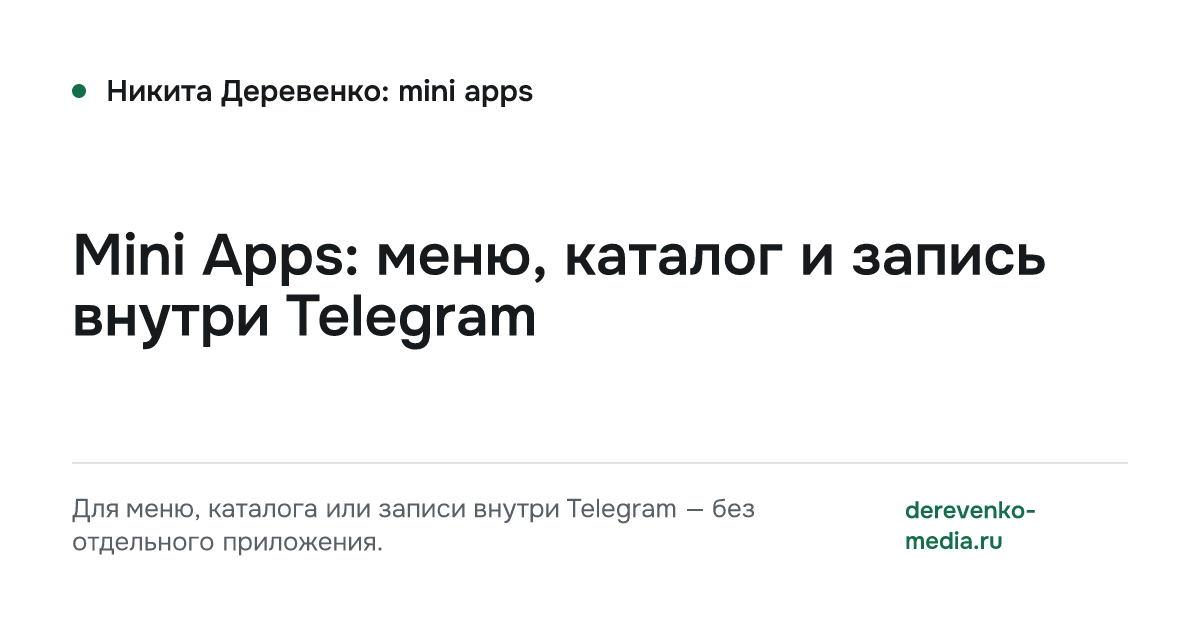
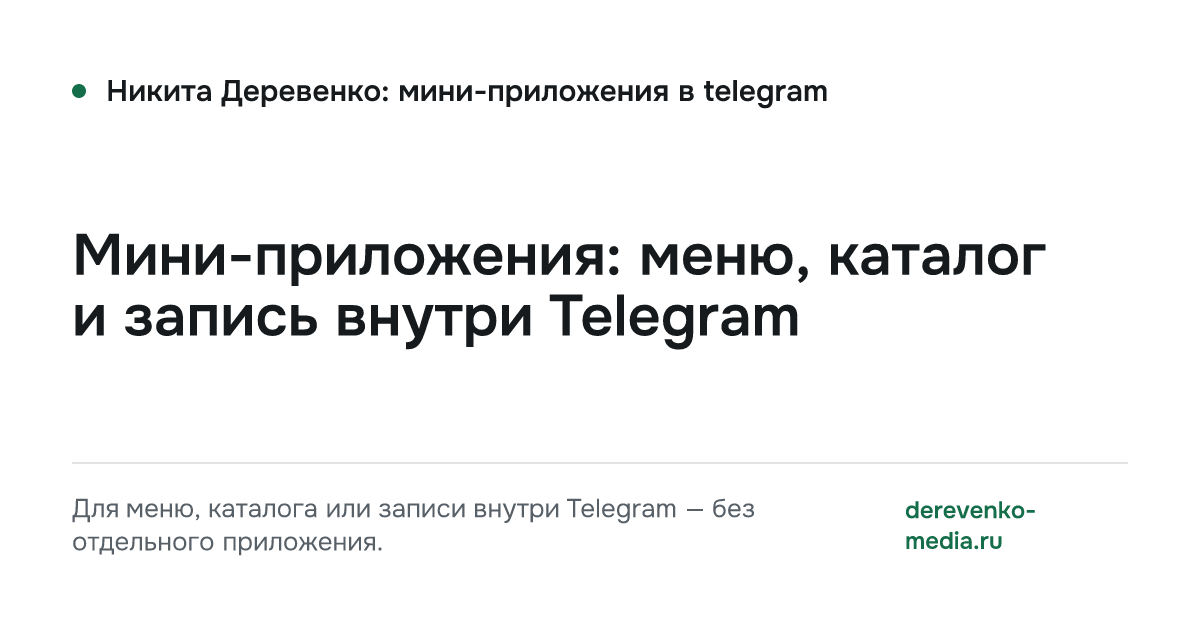
Юридические правки по проверке vlip.site и новым требованиям
- политика ПД: порядок действий при утечке (24/72 ч, ч. 3.1 ст. 21 152-ФЗ), ссылка на редакцию с учётом 420-ФЗ
- новая страница «Отказ от услуги и возврат оплаты» (RU/EN), ссылка в подвале
- возрастная маркировка 0+ в подвале (436-ФЗ)
- закон о защите русского языка (с 01.03.2026): «Mini App» на русской версии заменено на «мини-приложение»
- дата редакции документов — 30 октября 2026

Claude-Session: https://claude.ai/code/session_01KVSGJhw8g72LG5bgx7uyba

Changed region(s): [[0.0617, 0.3619, 0.8942, 0.573], [0.3392, 0.1206, 0.7092, 0.181]]

diff --git a/lib/i18n/ru.ts b/lib/i18n/ru.ts
@@ -36,7 +36,7 @@ export const ru = {
   meta: {
     title: 'Никита Деревенко — реклама, сайты и Telegram-сервисы для бизнеса',
     description:
-      'Яндекс Директ, VK Реклама, карточки на Яндекс Картах, сайты, Telegram-боты и Mini Apps. Работаю лично, договор и чек. Бесплатный разбор за 24 часа.',
+      'Яндекс Директ, VK Реклама, карточки на Яндекс Картах, сайты, Telegram-боты и мини-приложения. Работаю лично, договор и чек. Бесплатный разбор за 24 часа.',
     ogLine: 'Реклама и карты для малого бизнеса — с отчётом в рублях, а не в кликах',
   },
   brand: { name: 'Никита Деревенко' },
@@ -160,7 +160,7 @@ export const ru = {
     'telegram-bots': {
       name: 'Telegram-сервисы',
       forWhom: 'Для записи, заказов, каталога и оплаты прямо в Telegram.',
-      card: 'Боты для заявок, записи и каталога, Mini Apps, автоматизация заявок.',
+      card: 'Боты для заявок, записи и каталога, мини-приложения, автоматизация заявок.',
       page: {
         title: 'Telegram-боты: заявки, запись, каталог, оплата',
         description: 'Telegram-боты для заявок, записи и FAQ, бот-каталог с корзиной, бот с оплатой или CRM. Сценарий, уведомления, выгрузка в таблицу. От 5 рабочих дней.',
@@ -180,7 +180,7 @@ export const ru = {
         ],
         extra: ['Сервер и поддержка — от 2 000 ₽/мес.', 'Комиссии платёжных систем и тарифы CRM оплачиваются отдельно.'],
         faq: [
-          { q: 'Чем бот отличается от Mini App?', a: 'Бот — диалог с кнопками. Mini App — полноценный экран внутри Telegram: меню с фото, каталог, корзина, запись по календарю. Mini App сложнее и дороже — от 59 000 ₽.' },
+          { q: 'Чем бот отличается от мини-приложения?', a: 'Бот — диалог с кнопками. Мини-приложение — полноценный экран внутри Telegram: меню с фото, каталог, корзина, запись по календарю. Мини-приложение сложнее и дороже — от 59 000 ₽.' },
           { q: 'Куда попадают заявки?', a: 'В таблицу и уведомлением администратору в Telegram. По задаче — в CRM.' },
           { q: 'Можно ли принимать оплату?', a: 'Да, через платёжные системы, которые работают с Telegram или по ссылке на оплату. Это бот с оплатой — от 39 000 ₽.' },
           { q: 'Кто будет следить за ботом после запуска?', a: 'Могу взять на поддержку — сервер, мониторинг и мелкие правки от 2 000 ₽/мес. Или передам вам доступы.' },
@@ -189,13 +189,13 @@ export const ru = {
       },
     },
     'mini-apps': {
-      name: 'Mini Apps',
+      name: 'Мини-приложения в Telegram',
       forWhom: 'Для меню, каталога или записи внутри Telegram — без отдельного приложения.',
       card: 'Полноценный экран внутри Telegram: меню, каталог, запись.',
       page: {
-        title: 'Telegram Mini Apps: меню, каталог, запись',
-        description: 'Mini App внутри Telegram от 59 000 ₽: меню или каталог с фото, корзина, запись по календарю, оплата. От 14 рабочих дней.',
-        h1: 'Mini Apps: меню, каталог и запись внутри Telegram',
+        title: 'Мини-приложения в Telegram: меню, каталог, запись',
+        description: 'Мини-приложение внутри Telegram от 59 000 ₽: меню или каталог с фото, корзина, запись по календарю, оплата. От 14 рабочих дней.',
+        h1: 'Мини-приложения: меню, каталог и запись внутри Telegram',
         gets: [
           'Экран с вашим брендом прямо внутри Telegram',
           'Меню или каталог с фото, ценами и корзиной',
@@ -211,7 +211,7 @@ export const ru = {
         ],
         extra: ['Сервер и поддержка — от 2 000 ₽/мес.', 'Комиссии платёжных систем оплачиваются отдельно.'],
         faq: [
-          { q: 'Зачем Mini App, если есть сайт?', a: 'Клиенту не нужно уходить из Telegram: открыл, выбрал, оплатил. Удобно, если клиенты и так пишут вам в Telegram.' },
+          { q: 'Зачем мини-приложение, если есть сайт?', a: 'Клиенту не нужно уходить из Telegram: открыл, выбрал, оплатил. Удобно, если клиенты и так пишут вам в Telegram.' },
           { q: 'Сколько стоит и от чего зависит цена?', a: 'От 59 000 ₽. Цена зависит от количества экранов, каталога, оплаты и интеграций — смету назову после обсуждения.' },
           { q: 'Можно ли обновлять меню и цены самому?', a: 'Да — через таблицу или простую админку, решаем на этапе прототипа.' },
           { q: 'Сколько длится разработка?', a: 'От 14 рабочих дней после согласования прототипа.' },
@@ -255,7 +255,7 @@ export const ru = {
       botLeads: { name: 'Бот для заявок, записи или FAQ', scope: 'сценарий, уведомления администратору, выгрузка в таблицу', term: 'от 5 рабочих дней' },
       botCatalog: { name: 'Бот-каталог с корзиной', scope: 'каталог, корзина, заказы в таблицу', term: 'от 5 рабочих дней' },
       botPay: { name: 'Бот с оплатой или CRM', scope: 'приём оплаты и/или передача в CRM', term: 'от 5 рабочих дней' },
-      miniApp: { name: 'Mini App', scope: 'меню, каталог или запись внутри Telegram', term: 'от 14 рабочих дней' },
+      miniApp: { name: 'Мини-приложение в Telegram', scope: 'меню, каталог или запись внутри Telegram', term: 'от 14 рабочих дней' },
       botSupport: { name: 'Поддержка бота и сервер', scope: 'хостинг, мониторинг, мелкие правки' },
     } as Record<ServiceId, ServiceCopy>,
   },
@@ -318,7 +318,7 @@ export const ru = {
     success: { title: 'Готово, заявка у меня', text: 'Пришлю план и ориентир по стоимости в течение 24 часов в рабочие дни.' },
     q1: {
       title: 'Что нужно?',
-      options: { promotion: 'Продвижение (карты и реклама)', website: 'Сайт', bot: 'Telegram-бот', miniapp: 'Mini App', unsure: 'Пока не знаю — подскажите' },
+      options: { promotion: 'Продвижение (карты и реклама)', website: 'Сайт', bot: 'Telegram-бот', miniapp: 'Мини-приложение', unsure: 'Пока не знаю — подскажите' },
     },
     sphere: { title: 'Сфера бизнеса', other: 'Другая сфера', otherPh: 'Напишите сферу' },
     geo: { title: 'Город или география', ph: 'Например, Казань', options: { multi: 'Несколько городов', online: 'Онлайн по России' } },
@@ -398,7 +398,7 @@ export const ru = {
     resultPublished: 'Опубликовано',
     resultTerm: 'Срок',
     examples: 'Примеры работ',
-    cta: { title: 'Хотите так же для своего бизнеса?', text: 'Для действующего бизнеса — бесплатный разбор. Для нового сайта, бота или Mini App — обсудим проект.' },
+    cta: { title: 'Хотите так же для своего бизнеса?', text: 'Для действующего бизнеса — бесплатный разбор. Для нового сайта, бота или мини-приложения — обсудим проект.' },
     notFound: 'Кейс не найден',
     prev: 'Предыдущая работа',
     next: 'Следующая работа',
@@ -431,7 +431,7 @@ export const ru = {
         text: 'Я вообще не понимала, как должен выглядеть бот. Объяснила своими словами, что нужно, — Никита показал на примере. Потом ещё переименовали кнопки, чтобы клиентам было понятнее, с этим тоже помог.',
       },
       {
-        tag: 'Mini App',
+        tag: 'Мини-приложение в Telegram',
         who: 'Барбершоп, Симферополь',
         text: 'Больше всего понравилось, что каталог открывается прямо в Telegram. Первую версию немного переделали: укрупнили фото и сократили оформление заказа. После правок стало гораздо удобнее.',
       },
@@ -567,10 +567,10 @@ export const ru = {
   },
   contact: {
     title: 'Обсудить проект',
-    sub: 'Для нового сайта, бота или Mini App — когда отправлять ссылку ещё нечего.',
+    sub: 'Для нового сайта, бота или мини-приложения — когда отправлять ссылку ещё нечего.',
     fields: {
       direction: 'Направление',
-      directionOptions: { promotion: 'Продвижение', websites: 'Сайт', 'telegram-bots': 'Telegram-бот', 'mini-apps': 'Mini App', other: 'Пока не знаю' },
+      directionOptions: { promotion: 'Продвижение', websites: 'Сайт', 'telegram-bots': 'Telegram-бот', 'mini-apps': 'Мини-приложение', other: 'Пока не знаю' },
       message: 'Коротко о задаче',
       messagePh: 'Например: нужен лендинг для студии маникюра с записью',
       contact: 'Telegram, телефон или email',
@@ -601,7 +601,7 @@ export const ru = {
       },
       {
         q: 'Как быстро будет результат?',
-        a: 'Запуск — от 7 дней, точные сроки указаны у каждой услуги. По рекламе первые обращения — в первые дни, выводы — через 2–4 недели. Бот — от 5 рабочих дней, Mini App — от 14.',
+        a: 'Запуск — от 7 дней, точные сроки указаны у каждой услуги. По рекламе первые обращения — в первые дни, выводы — через 2–4 недели. Бот — от 5 рабочих дней, мини-приложение — от 14.',
       },
       {
         q: 'Работаете ли с бизнесом за рубежом?',
@@ -645,6 +645,8 @@ export const ru = {
     privacy: 'Политика обработки персональных данных',
     consent: 'Согласие на обработку данных',
     terms: 'Условия работы',
+    refund: 'Отказ от услуги и возврат',
+    age: '0+',
     hours: 'Пн–пт 8:00–18:00 МСК',
     requisites: '{name} · самозанятый (НПД) · ИНН {inn}',
     checkStatus: 'Проверить статус в ФНС',
@@ -657,7 +659,7 @@ export const ru = {
   privacy: {
     title: 'Политика обработки персональных данных',
     intro:
-      'Политика составлена в соответствии с Федеральным законом от 27.07.2006 № 152-ФЗ «О персональных данных» и действует в отношении всех персональных данных, которые оператор получает через сайт {site}.',
+      'Политика составлена в соответствии с Федеральным законом от 27.07.2006 № 152-ФЗ «О персональных данных» (в редакции, действующей с учётом изменений, внесённых в том числе Федеральным законом от 30.11.2024 № 420-ФЗ) и действует в отношении всех персональных данных, которые оператор получает через сайт {site}.',
     sections: [
       {
         h: 'Кто обрабатывает данные',
@@ -737,6 +739,17 @@ export const ru = {
         p: ['Данные передаются по защищённому протоколу HTTPS, доступ к заявкам есть только у оператора, формы защищены от автоматических отправок.'],
       },
       {
+        id: 'incidents',
+        h: 'Что делает оператор при утечке данных',
+        p: ['Если произошла неправомерная или случайная передача персональных данных (утечка), оператор действует по ч. 3.1 ст. 21 152-ФЗ:'],
+        list: [
+          'в течение 24 часов с момента, когда утечка выявлена, уведомляет Роскомнадзор: что произошло, предполагаемые причины и вред, принятые меры и контактное лицо;',
+          'в течение 72 часов сообщает Роскомнадзору результаты внутреннего расследования и сведения о виновных, если они установлены;',
+          'принимает меры, чтобы остановить утечку и уменьшить её последствия, и сообщает о ней людям, чьи данные затронуты;',
+          'взаимодействует с ГосСОПКА в порядке, установленном законом.',
+        ],
+      },
+      {
         h: 'Изменение политики',
         p: ['Оператор может обновлять политику. Актуальная редакция всегда опубликована на этой странице.'],
       },
@@ -809,6 +822,50 @@ export const ru = {
           'Тексты, дизайн и изображения сайта принадлежат исполнителю или используются с разрешения правообладателей; копирование без согласия запрещено. Названия и логотипы сервисов Яндекс, VK, Telegram и Google принадлежат их владельцам.',
           'Права на результаты работ по договору (сайт, тексты, дизайн, код бота) переходят к заказчику в порядке, указанном в договоре.',
         ],
+      },
+    ],
+  } as LegalDoc,
+  refund: {
+    title: 'Отказ от услуги и возврат оплаты',
+    intro:
+      'Порядок отказа от услуг и возврата денег для заказчиков {name}, самозанятого (НПД), ИНН {inn}. Он основан на ст. 32 Закона РФ «О защите прав потребителей» и ст. 782 Гражданского кодекса РФ. Точные условия по вашему проекту фиксируются в договоре.',
+    sections: [
+      {
+        h: 'Можно отказаться в любой момент',
+        p: ['Вы можете отказаться от услуги на любом этапе — до начала работ или в процессе, без штрафов и объяснения причин. Достаточно написать об этом в Telegram {telegram}{email}.'],
+      },
+      {
+        h: 'Сколько денег вернётся',
+        list: [
+          'если работы ещё не начаты — вся предоплата, полностью;',
+          'если работы начаты — предоплата за вычетом стоимости уже выполненных этапов и фактически понесённых расходов; их состав и расчёт присылаю вместе с ответом;',
+          'результаты оплаченных и выполненных этапов (тексты, макеты, настроенные кампании, код) остаются у вас.',
+        ],
+      },
+      {
+        h: 'Что не возвращается исполнителем',
+        list: [
+          'рекламный бюджет: вы платите его напрямую в рекламную систему (Яндекс Директ, VK Реклама и т. п.), и неизрасходованный остаток возвращается по правилам этой системы;',
+          'оплата сторонних сервисов, оформленных на вас: домен, хостинг, платные шрифты и фото, тарифы CRM и платёжных систем.',
+        ],
+      },
+      {
+        h: 'Сроки и способ возврата',
+        p: [
+          'Деньги возвращаются в течение 10 дней с момента, когда я получил заявление об отказе, тем же способом, которым была оплата, или на реквизиты, которые вы укажете.',
+          'На возврат формируется чек коррекции в приложении «Мой налог».',
+        ],
+      },
+      {
+        h: 'Если работа сделана с недостатками',
+        p: [
+          'Если результат не соответствует договору, вы можете потребовать бесплатно устранить недостатки, соразмерно уменьшить цену или отказаться от договора с возвратом оплаты за этот этап — по ст. 29 Закона «О защите прав потребителей».',
+          'Недостатком не считается отсутствие конкретного количества заявок или продаж: результат рекламы зависит от продукта, цен, конкуренции и бюджета (см. «Условия работы»).',
+        ],
+      },
+      {
+        h: 'Гарантия сроков',
+        p: ['Если этап запущен позже срока из договора по моей вине, стоимость работ этого этапа снижается на 20 %.'],
       },
     ],
   } as LegalDoc,

diff --git a/lib/projects.ts b/lib/projects.ts
@@ -65,7 +65,7 @@ const TAG = {
   site: t('Сайт', 'Website'),
   landing: t('Лендинг', 'Landing page'),
   bot: t('Telegram-бот', 'Telegram bot'),
-  miniApp: t('Mini App', 'Mini App'),
+  miniApp: t('Мини-приложение', 'Mini App'),
 };
 
 const dish = (slug: string, n: number, ru: string, en: string): ProjectImage => ({
@@ -360,7 +360,7 @@ PROJECTS.push(
     tags: [TAG.bot, TAG.miniApp],
     clientName: t('Барбершоп «Контур»', 'Kontur barbershop'),
     clientAnonymous: t('Барбершоп «Контур»', 'Kontur barbershop'),
-    title: t('Онлайн-запись в барбершоп через Telegram: бот и Mini App', 'Online booking for a barbershop in Telegram: bot and Mini App'),
+    title: t('Онлайн-запись в барбершоп через Telegram: бот и мини-приложение', 'Online booking for a barbershop in Telegram: bot and Mini App'),
     summary: t(
       'Клиент выбирает услугу, мастера и время — и записывается, не выходя из Telegram.',
       'Clients pick a service, a barber and a time — and book without leaving Telegram.',
@@ -371,7 +371,7 @@ PROJECTS.push(
     ),
     steps: [
       t('Бот: выбор услуги → время → подтверждение, с ценой и длительностью.', 'Bot: service → time → confirmation, with price and duration.'),
-      t('Mini App: экран с услугами, мастерами и календарём свободного времени.', 'Mini App: a screen with services, barbers and a calendar of free slots.'),
+      t('Мини-приложение: экран с услугами, мастерами и календарём свободного времени.', 'Mini App: a screen with services, barbers and a calendar of free slots.'),
       t('Перенос и отмена записи кнопкой, напоминание клиенту.', 'Reschedule or cancel with one button, plus a reminder to the client.'),
       t('Уведомление мастеру и администратору о каждой записи.', 'A notification to the barber and the admin for every booking.'),
     ],
@@ -389,7 +389,7 @@ PROJECTS.push(
     tags: [TAG.maps, TAG.bot, TAG.miniApp],
     clientName: t('Цветочная мастерская «Лепесток»', 'Lepestok flower studio'),
     clientAnonymous: t('Цветочная мастерская «Лепесток»', 'Lepestok flower studio'),
-    title: t('Цветочный магазин: карточка на картах, бот-подборщик и Mini App с доставкой', 'Flower shop: map listing, bouquet bot and a delivery Mini App'),
+    title: t('Цветочный магазин: карточка на картах, бот-подборщик и мини-приложение с доставкой', 'Flower shop: map listing, bouquet bot and a delivery Mini App'),
     summary: t(
       'Покупатель находит магазин на картах, подбирает букет под повод и бюджет и оформляет доставку в Telegram.',
       'Shoppers find the store on the map, pick a bouquet by occasion and budget, and order delivery in Telegram.',
@@ -401,7 +401,7 @@ PROJECTS.push(
     steps: [
       t('Карточка на Яндекс Картах: витрина букетов с ценами и обложки историй с кнопкой «Позвонить».', 'Yandex Maps listing: a bouquet showcase with prices and story covers with a Call button.'),
       t('Бот-подборщик: повод → бюджет → готовый вариант с фото и ценой.', 'Bouquet bot: occasion → budget → a ready option with photo and price.'),
-      t('Mini App: каталог, корзина, открытка, время доставки и оплата.', 'Mini App: catalogue, cart, card message, delivery slot and payment.'),
+      t('Мини-приложение: каталог, корзина, открытка, время доставки и оплата.', 'Mini App: catalogue, cart, card message, delivery slot and payment.'),
     ],
     results: [],
     cover: shot('solution-lepestok/cover', 'Мобильная карточка цветочного магазина на Яндекс Картах', 'Mobile listing for a flower shop on Yandex Maps'),

diff --git a/lib/i18n/en.ts b/lib/i18n/en.ts
@@ -597,6 +597,8 @@ export const en: Dict = {
     privacy: 'Privacy policy',
     consent: 'Consent to data processing',
     terms: 'Terms of work',
+    refund: 'Cancellation and refunds',
+    age: '0+',
     hours: 'Mon–Fri, 8 am–6 pm Moscow time',
     requisites: '{name} · self-employed (Russian professional income tax) · Tax ID (INN) {inn}',
     checkStatus: 'Check status with the tax service',
@@ -686,6 +688,17 @@ export const en: Dict = {
         p: ['Data is transmitted over HTTPS, only the operator can access requests, and the forms are protected against automated submissions.'],
       },
       {
+        id: 'incidents',
+        h: 'What the operator does in case of a data breach',
+        p: ['If personal data is unlawfully or accidentally disclosed (a breach), the operator acts under Part 3.1 of Article 21 of Federal Law 152-FZ:'],
+        list: [
+          'within 24 hours of detecting the breach, notifies Roskomnadzor: what happened, the presumed causes and harm, the measures taken and a contact person;',
+          'within 72 hours, reports to Roskomnadzor the results of the internal investigation and the persons responsible, if identified;',
+          'takes measures to stop the breach and limit its consequences, and informs the people whose data was affected;',
+          'cooperates with the state system for detecting computer attacks (GosSOPKA) as required by law.',
+        ],
+      },
+      {
         h: 'Changes to this policy',
         p: ['The operator may update this policy. The current version is always published on this page.'],
       },
@@ -757,6 +770,38 @@ export const en: Dict = {
           'Rights to the work delivered under a contract (website, copy, design, bot code) pass to the client as set out in the contract.',
         ],
       },
+    ],
+  } as LegalDoc,
+  refund: {
+    title: 'Cancellation and refunds',
+    intro:
+      'How clients of {name}, self-employed (Russian professional income tax), Tax ID (INN) {inn}, can cancel a service and get a refund. Based on Article 32 of the Russian Consumer Rights Protection Law and Article 782 of the Civil Code. The exact terms for your project are set out in the contract.',
+    sections: [
+      { h: 'You can cancel at any time', p: ['You can cancel at any stage — before work starts or while it is in progress — with no penalties and no reason required. Just message me on Telegram {telegram}{email}.'] },
+      {
+        h: 'How much is refunded',
+        list: [
+          'if work has not started — the full prepayment;',
+          'if work has started — the prepayment minus the cost of completed stages and expenses actually incurred; I send the breakdown with my reply;',
+          'the results of paid, completed stages (copy, mock-ups, configured campaigns, code) stay with you.',
+        ],
+      },
+      {
+        h: 'What is not refunded by me',
+        list: [
+          'ad budget: you pay it directly to the ad platform, and any unspent balance is refunded under that platform’s rules;',
+          'third-party services registered in your name: domain, hosting, paid fonts and photos, CRM and payment provider fees.',
+        ],
+      },
+      { h: 'Refund timing and method', p: ['Money is returned within 10 days of receiving your cancellation, by the original payment method or to the details you provide. A correction receipt is issued in the “My Tax” app.'] },
+      {
+        h: 'If the work has defects',
+        p: [
+          'If the result does not match the contract, you can ask for the defects to be fixed free of charge, a proportionate price reduction, or cancellation with a refund for that stage (Article 29 of the Consumer Rights Protection Law).',
+          'Not getting a specific number of leads or sales is not a defect: ad results depend on the product, prices, competition and budget (see Terms of work).',
+        ],
+      },
+      { h: 'Deadline guarantee', p: ['If a stage launches later than the contract date through my fault, the price of that stage is reduced by 20%.'] },
     ],
   } as LegalDoc,
   notFound: { title: 'Page not found', back: 'Back to home' },

diff --git a/components/chrome.tsx b/components/chrome.tsx
@@ -32,7 +32,7 @@ export function Footer() {
           <span className="text-muted">{dict.footer.hours}</span>
         </div>
         <nav aria-label={dict.footer.terms} className="flex flex-col gap-2 text-[14px] text-muted">
-          {(['privacy', 'consent', 'terms'] as const).map((id) => (
+          {(['privacy', 'consent', 'terms', 'refund'] as const).map((id) => (
             <Link key={id} prefetch={false} href={`/${locale}/${id}`} className="hover:text-ink">
               {dict.footer[id]}
             </Link>
@@ -48,7 +48,13 @@ export function Footer() {
           </a>
         </p>
         <p>{dict.footer.notOffer}</p>
-        <p>{fill(dict.footer.copyright, { year: String(new Date().getFullYear()) })}</p>
+        <p>
+          {fill(dict.footer.copyright, { year: String(new Date().getFullYear()) })}
+          {/* возрастная маркировка информационной продукции (436-ФЗ) */}
+          <span className="ml-3 rounded border border-line px-1.5 py-0.5 text-[12px] font-semibold text-ink/70">
+            {dict.footer.age}
+          </span>
+        </p>
       </div>
     </footer>
   );
@@ -88,7 +94,7 @@ export function StickyCta() {
   }, [pathname]);
 
   // на юридических страницах кнопка мешает читать документ
-  const isLegal = /\/(privacy|consent|terms)$/.test(pathname);
+  const isLegal = /\/(privacy|consent|terms|refund)$/.test(pathname);
   const visible = show && !formVisible && !isLegal;
   return (
     <div

diff --git a/components/legal-page.tsx b/components/legal-page.tsx
@@ -4,7 +4,7 @@ import { fill, getDict } from '@/lib/i18n';
 import type { LegalDoc } from '@/lib/i18n/ru';
 import { LEGAL, SITE, type Locale } from '@/lib/site';
 
-export const LEGAL_PAGES = ['privacy', 'consent', 'terms'] as const;
+export const LEGAL_PAGES = ['privacy', 'consent', 'terms', 'refund'] as const;
 export type LegalPageId = (typeof LEGAL_PAGES)[number];
 
 /** Документ страницы и подпись ссылки на него в подвале */
@@ -12,6 +12,7 @@ function docOf(id: LegalPageId, locale: Locale): { doc: LegalDoc; label: string 
   const d = getDict(locale);
   if (id === 'privacy') return { doc: d.privacy, label: d.footer.privacy };
   if (id === 'consent') return { doc: d.consentDoc, label: d.footer.consent };
+  if (id === 'refund') return { doc: d.refund, label: d.footer.refund };
   return { doc: d.terms, label: d.footer.terms };
 }
 
@@ -67,7 +68,7 @@ export function LegalPage({ id, locale }: { id: LegalPageId; locale: Locale }) {
         ))}
       </ol>
       <nav aria-label={dict.legal.related} className="mt-14 border-t border-line pt-6">
-        <p className="caps text-muted">{dict.legal.related}</p>
+        <p className="text-[15px] font-semibold">{dict.legal.related}</p>
         <ul className="mt-3 flex flex-col gap-2 text-[16px]">
           {LEGAL_PAGES.filter((x) => x !== id).map((x) => (
             <li key={x}>

diff --git a/app/[locale]/refund/page.tsx b/app/[locale]/refund/page.tsx
@@ -1,0 +1,13 @@
+import type { Metadata } from 'next';
+import { LegalPage, legalMetadata } from '@/components/legal-page';
+import type { Locale } from '@/lib/site';
+
+export async function generateMetadata({ params: paramsP }: { params: Promise<{ locale: Locale }> }): Promise<Metadata> {
+  const params = await paramsP;
+  return legalMetadata('refund', params.locale);
+}
+
+export default async function RefundPage({ params: paramsP }: { params: Promise<{ locale: Locale }> }) {
+  const params = await paramsP;
+  return <LegalPage id="terms" locale={params.locale} />;
+}

diff --git a/lib/site.ts b/lib/site.ts
@@ -50,7 +50,7 @@ export const LEGAL = {
   /** Сервис ФНС «Проверить статус самозанятого» */
   checkUrl: 'https://npd.nalog.ru/check-status/',
   /** Дата редакции юридических документов */
-  updated: { ru: '29 октября 2026 года', en: '29 October 2026' },
+  updated: { ru: '30 октября 2026 года', en: '30 October 2026' },
 };
 
 /** false — в проектах выводится clientAnonymous, true — clientName (только с разрешения клиентов). */
